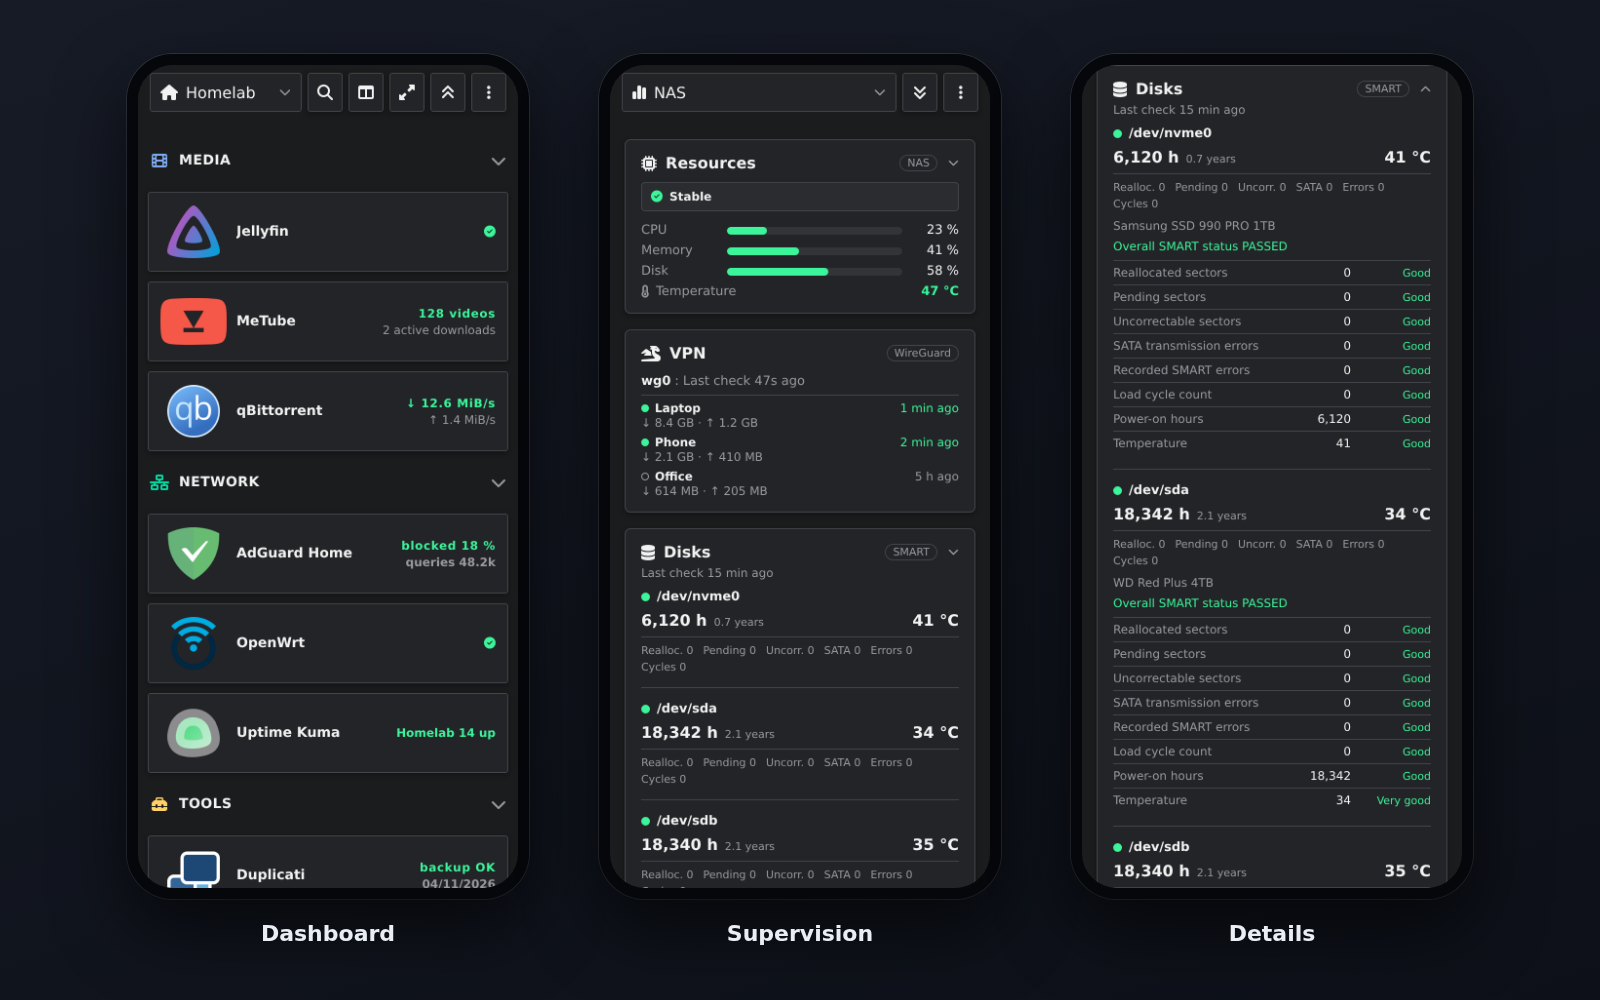
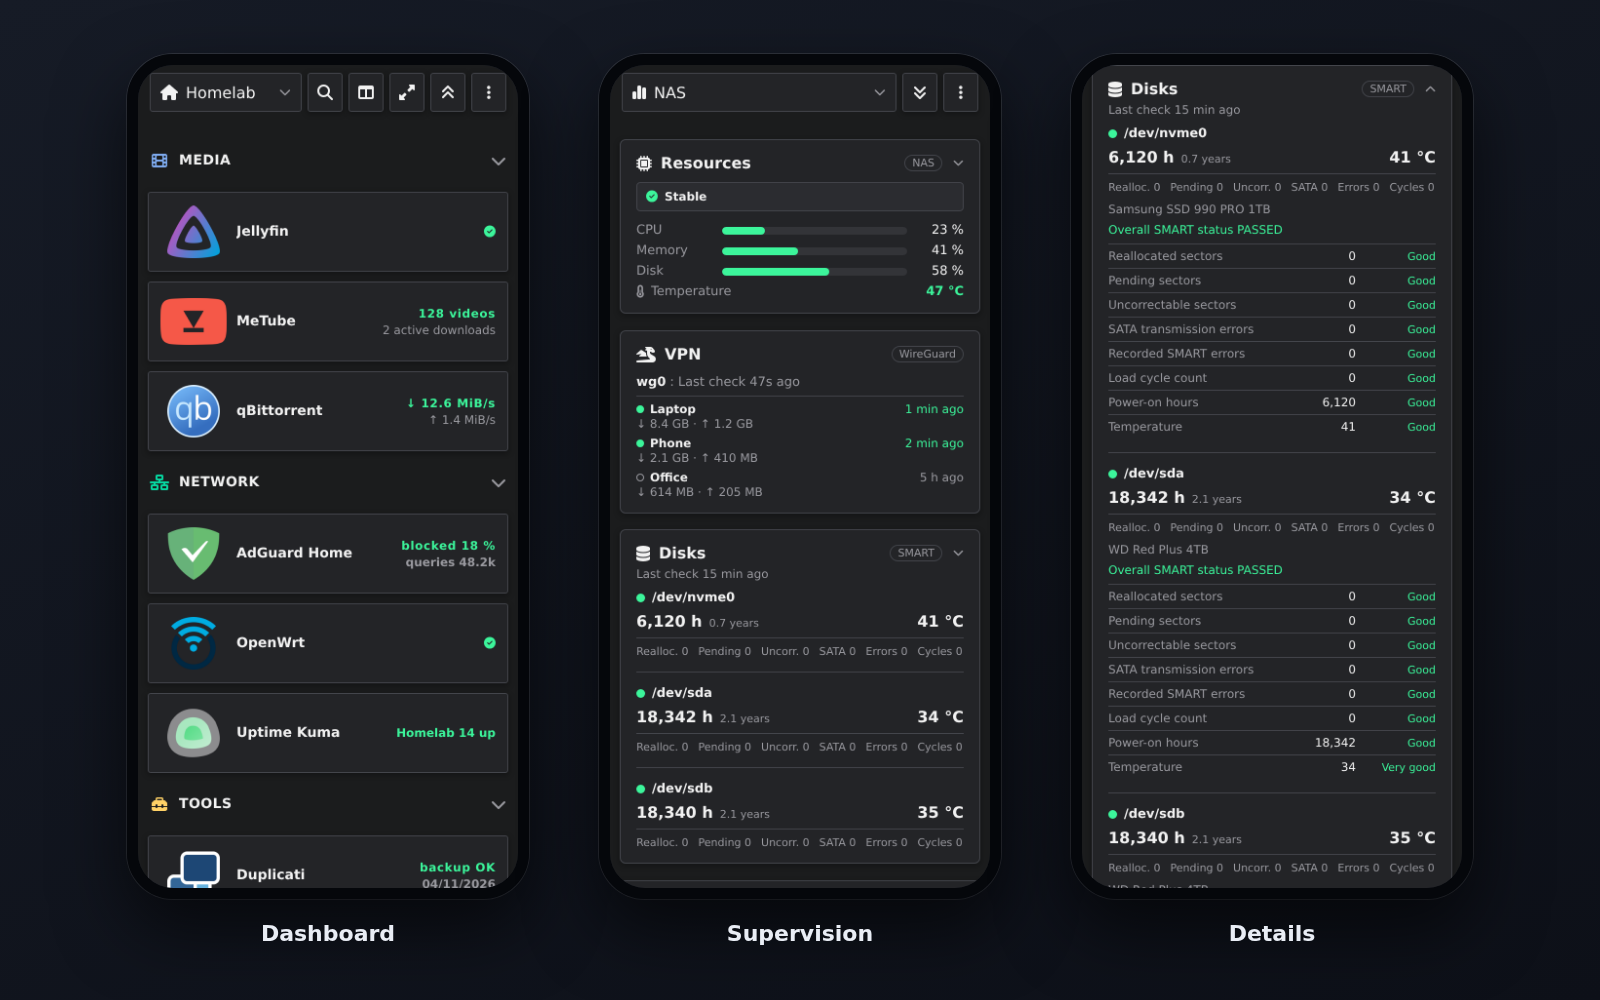
supervision : cartes en mosaique sur toute la largeur
La grille avancait par lignes : la carte la plus haute fixait la hauteur de
la ligne et laissait de grands vides sous les cartes courtes (jusqu'a 800 px
sous Ressources et VPN avec Disques deplie). Les cartes remontent maintenant
sous la precedente de leur colonne (rangees de 4 px, placement dense,
ResizeObserver), et un trou a cote d'une carte large est comble par la
suivante qui y tient.

En mode Auto, la grille occupe toute la largeur de la barre du haut au lieu
de colonnes de 360 px centrees. Deplie avec plusieurs disques, Disques prend
deux colonnes et place deux disques par ligne. Avec trois colonnes, une carte
OpenCode ou Claude Code depliee prend toute la ligne au lieu de laisser la
troisieme colonne vide.

Claude-Session: https://claude.ai/code/session_01132Ww1zG67tFXtzadGnHLb

diff --git a/public/css/components.css b/public/css/components.css
@@ -943,13 +943,18 @@ body[data-page="supervision"] #collapseAllBtn {
 
 .supervision-grid {
   display: grid;
-  /* Les cartes ne grossissent pas pour remplir une ligne incomplete. La grille
-     centre les colonnes utiles et le DOM place chaque carte dans la premiere
-     case libre, y compris les details WireGuard et SMART. */
-  grid-template-columns: repeat(auto-fit, minmax(min(100%, 320px), 360px));
-  justify-content: center;
+  /* Full width, aligned on the toolbar: as many columns of 320 px or more as
+     fit. auto-fill keeps the column width when there are few cards. */
+  grid-template-columns: repeat(auto-fill, minmax(min(100%, 320px), 1fr));
   align-items: start;
   gap: 16px;
+}
+/* Mosaic (supervision/masonry.js): thin rows without gap, each card spans the
+   rows its height needs; "dense" fills a hole beside a wide card. */
+.supervision-grid.masonry {
+  grid-auto-rows: 4px;
+  grid-auto-flow: row dense;
+  row-gap: 0;
 }
 
 .supervision-card {
@@ -1569,8 +1574,30 @@ body[data-page="supervision"] #collapseAllBtn {
   transform: rotate(180deg);
 }
 @media (min-width: 900px) {
-  .supervision-card-usage.expanded {
+  .supervision-card-usage.expanded,
+  .supervision-card-smart.expanded.multi-disk {
     grid-column: span 2;
+  }
+  /* With three columns, two would leave the third empty beside a tall card:
+     an opened coding agent card takes the whole row. */
+  .supervision-grid[data-tracks="3"] .supervision-card-usage.expanded {
+    grid-column: 1 / -1;
+  }
+  /* Opened with several disks: two disks per row. */
+  .supervision-card-smart.expanded.multi-disk .supervision-smart-disks {
+    display: grid;
+    grid-template-columns: repeat(2, minmax(0, 1fr));
+    column-gap: 24px;
+  }
+  .supervision-card-smart.expanded.multi-disk .supervision-smart-disk + .supervision-smart-disk {
+    margin-top: 0;
+    padding-top: 0;
+    border-top: 0;
+  }
+  .supervision-card-smart.expanded.multi-disk .supervision-smart-disk:nth-child(n + 3) {
+    margin-top: 14px;
+    padding-top: 14px;
+    border-top: 1px solid var(--border);
   }
 }
 .usage-age {

diff --git a/public/js/supervision/masonry.js b/public/js/supervision/masonry.js
@@ -1,0 +1,52 @@
+// Mosaic layout of the supervision grid: a card sits right under the one
+// above it in its column instead of under the tallest card of the row.
+//
+// The grid is cut into thin rows (UNIT px, no row gap) and each card spans as
+// many as its height needs, gap included. "dense" placement lets a later card
+// fill a hole left beside a wide card. A ResizeObserver keeps the spans right
+// when a card opens, its data changes or the window resizes. Without the
+// "masonry" class (no ResizeObserver) the grid keeps plain rows.
+
+export const UNIT = 4;
+export const GAP = 16;
+
+// Number of columns of the grid, read from its computed tracks.
+export function trackCount(template) {
+  return String(template || "")
+    .trim()
+    .split(/\s+/)
+    .filter(Boolean).length;
+}
+
+// Number of rows a card of this height takes, the gap below it included.
+export function masonrySpan(height, unit = UNIT, gap = GAP) {
+  const value = Number(height);
+  if (!Number.isFinite(value) || value <= 0) return 1;
+  return Math.ceil((value + gap) / unit);
+}
+
+let observer = null;
+
+export function layoutMasonry(grid) {
+  // The previous grid is gone after each render: stop watching its cards.
+  if (observer) observer.disconnect();
+  observer = null;
+  if (typeof ResizeObserver === "undefined") return;
+  const place = card => {
+    card.style.gridRowEnd = "span " + masonrySpan(card.getBoundingClientRect().height);
+  };
+  // The column count lets the CSS widen a card to the whole row when two
+  // columns would leave the third one empty beside it.
+  const count = () => {
+    grid.dataset.tracks = String(trackCount(getComputedStyle(grid).gridTemplateColumns));
+  };
+  grid.classList.add("masonry");
+  count();
+  const cards = [...grid.children];
+  cards.forEach(place);
+  observer = new ResizeObserver(entries =>
+    entries.forEach(entry => (entry.target === grid ? count() : place(entry.target)))
+  );
+  observer.observe(grid);
+  cards.forEach(card => observer.observe(card));
+}

diff --git a/test/frontend.test.js b/test/frontend.test.js
@@ -203,6 +203,17 @@ async function main() {
     );
   }
 
+  {
+    const masonry = await import(
+      pathToFileURL(path.join(JS_DIR, "supervision", "masonry.js")).href
+    );
+    // A card spans the 4 px rows of its height plus the 16 px gap below it.
+    check("mosaique : rangees d'une carte de 100 px", masonry.masonrySpan(100), 29);
+    check("mosaique : hauteur fractionnaire arrondie au-dessus", masonry.masonrySpan(100.2), 30);
+    check("mosaique : carte encore invisible", masonry.masonrySpan(0), 1);
+    check("mosaique : colonnes comptees", masonry.trackCount("413.3px 413.3px 413.3px"), 3);
+    check("mosaique : aucune colonne", masonry.trackCount("none"), 1);
+  }
   const toolbar = await import(pathToFileURL(path.join(JS_DIR, "toolbar.js")).href);
   {
     const { foldText, serviceMatchesSearch } = await importStateModules();

diff --git a/public/js/supervision/smart-card.js b/public/js/supervision/smart-card.js
@@ -116,6 +116,11 @@ export function smartCard(host, metrics, disks) {
     toggleDetails();
   });
 
+  // With several disks, the opened card spans two columns and lays the disks
+  // side by side (components.css).
+  if (disks.length > 1) card.classList.add("multi-disk");
+  const list = document.createElement("div");
+  list.className = "supervision-smart-disks";
   disks.forEach(disk => {
     const section = document.createElement("section");
     section.className = "supervision-smart-disk";
@@ -199,7 +204,8 @@ export function smartCard(host, metrics, disks) {
       smartDetailRow(t("smartTemperature"), disk.temperature, "temperature")
     );
     section.appendChild(details);
-    card.appendChild(section);
+    list.appendChild(section);
   });
+  card.appendChild(list);
   return card;
 }

diff --git a/public/js/supervision.js b/public/js/supervision.js
@@ -17,6 +17,7 @@ import {
 import { visibleSmartDisks, smartCard } from "./supervision/smart-card.js";
 import { aptUpdatesCard } from "./supervision/apt-card.js";
 import { USAGE_SOURCES, usageCard } from "./supervision/usage-card.js";
+import { layoutMasonry } from "./supervision/masonry.js";
 
 // Interval injected by the server (HOST_METRICS_INTERVAL). HTML served
 // without substitution (tests, local file) falls back to 60 s.
@@ -151,6 +152,7 @@ export function renderSupervision() {
     });
   }
   supervisionList.append(grid);
+  layoutMasonry(grid);
   updateSmartCollapseButton();
 }
 

diff --git a/docs/ARCHITECTURE.md b/docs/ARCHITECTURE.md
@@ -84,7 +84,8 @@ public/js/
   supervision.js       supervision page and metrics refresh
   supervision/         one file per card (host, WireGuard, SMART, APT,
                        coding agents: OpenCode and Claude Code), shared
-                       card behaviour (cards.js), texts (format.js) and the
+                       card behaviour (cards.js), mosaic layout (masonry.js),
+                       texts (format.js) and the
                        supervised instances (instances.js)
   editor.js            settings page: navigation tree, save, import / export
   editor/              one file per panel (services, widgets, categories,
